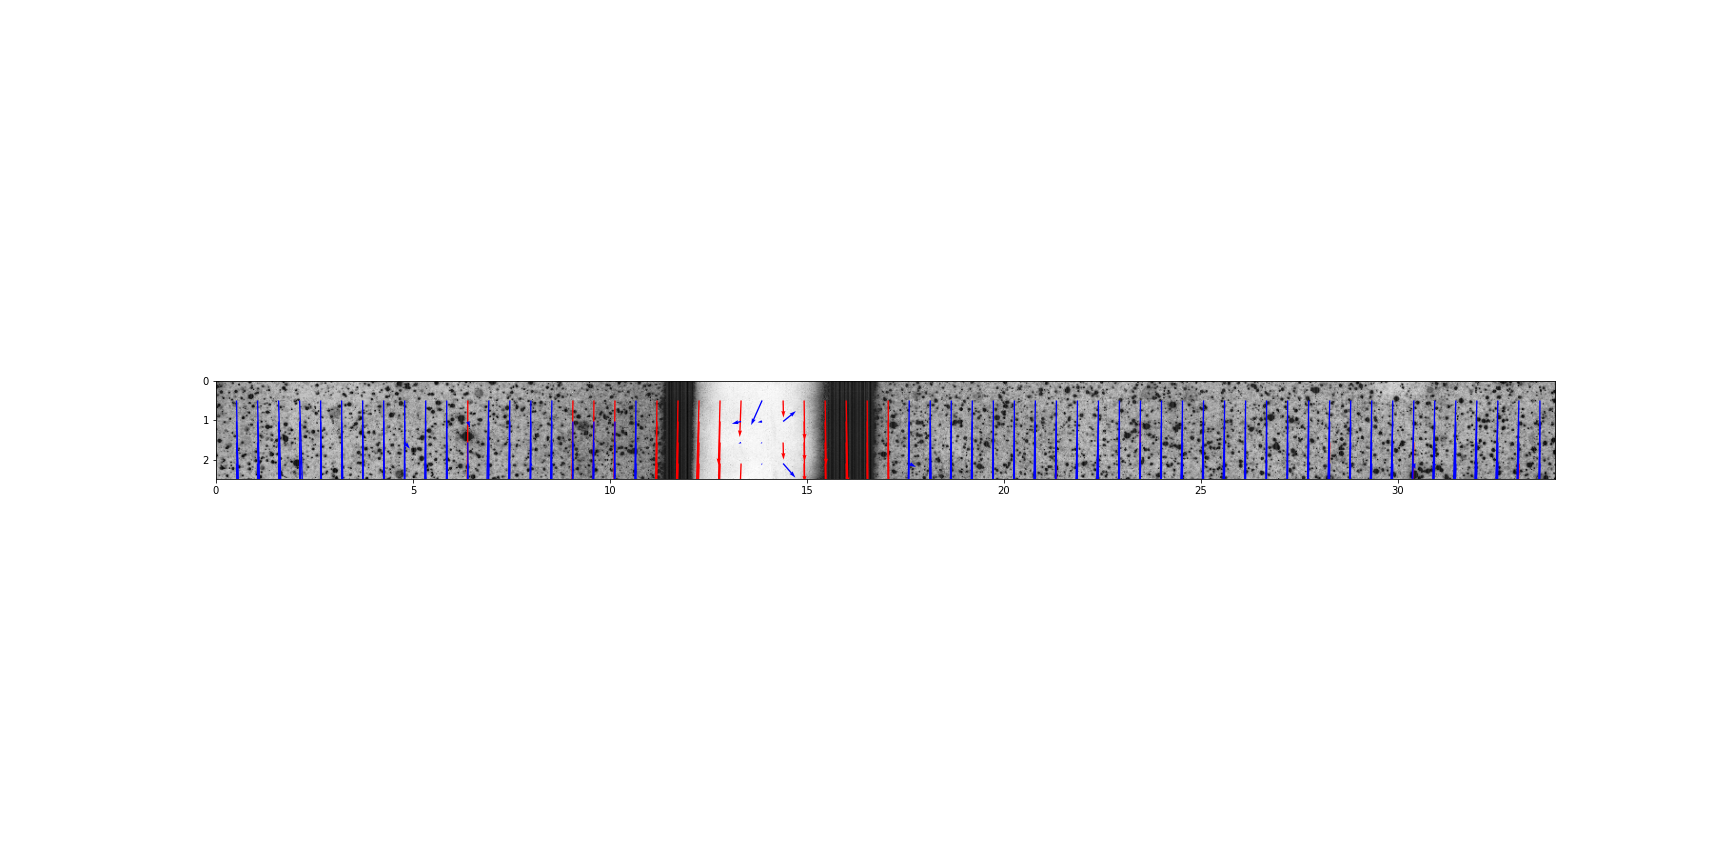
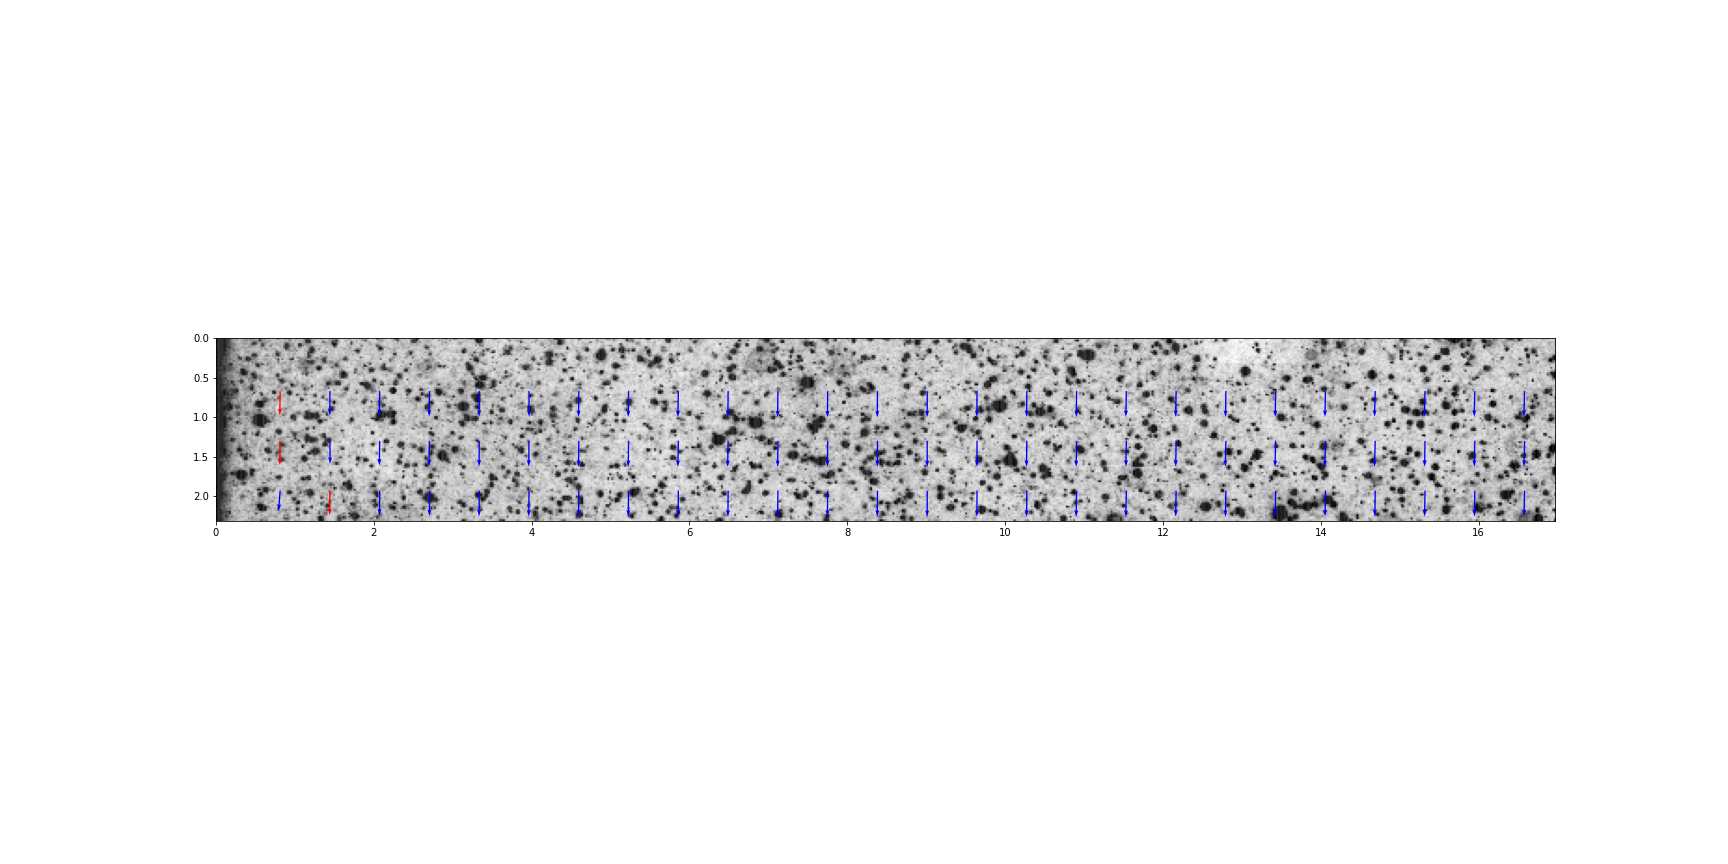
done with finding edge
but need to "ignore" the center region,
not removing. Also, think about no sample regions (front and end)

Changed region(s): [[0.125, 0.375, 0.9062, 0.625]]

diff --git a/playground.py b/playground.py
@@ -14,6 +14,8 @@ import skimage
 import skimage.feature
 import skimage.viewer
 
+import importlib
+
 # %%
 def param_string_to_dictionary(pstr):      
     running_parameter = re.findall("_[a-z]+[0-9]+[.]*[0-9]*", pstr, re.IGNORECASE)
@@ -30,15 +32,45 @@ def param_string_to_dictionary(pstr):
 
     return param_dict
 
+def split_image(img):
+    vertically_averaged = np.mean(img,axis=0)
+    filtered = gaussian_filter1d(vertically_averaged,10)
+    center_by_minimum = np.argmin(vertically_averaged)
 
+    left_max = np.argmax(filtered[0:center_by_minimum]) - 20
+    right_max = np.argmax(filtered[center_by_minimum:-1]) +center_by_minimum + 20
+    
+    img_left = img_a[:,0:left_max]
+    img_right = img_a[:,right_max:-1]
+
+    return img_left,img_right
+
+def split_image_arg(img):
+    vertically_averaged = np.mean(img,axis=0)
+    filtered = gaussian_filter1d(vertically_averaged,10)
+    center_by_minimum = np.argmin(vertically_averaged)
+
+    left_max = np.argmax(filtered[0:center_by_minimum]) - 20
+    right_max = np.argmax(filtered[center_by_minimum:-1]) +center_by_minimum + 20
+    
+    return left_max, right_max
+
+def match_images(img_a,img_b):
+    span_a = img_a.shape[1]
+    span_b = img_b.shape[1]
+
+    if span_a > span_b:
+        return img_a[:,span_a-span_b:-1], img_b
+    else:
+        return img_a, img_b[:,span_b-span_a:-1]
 # %%
 folder_path = 'D:/Rowland/piv-data/2021-01-20'
 
 param_string_list = os.listdir(folder_path)
 param_string_to_dictionary(param_string_list[5])
 # %%
-
-param_string_list = [param_string_list[0]]
+importlib.reload(openpiv_recipes)
+param_string_list = [param_string_list[5]]
 
 for param_string in param_string_list:
     img_a_name = 'frame_000102.tiff'
@@ -56,77 +88,64 @@ for param_string in param_string_list:
         file_path_b = os.path.join(folder_path,'img_' + param_string,img_b_name)
 
         img_a = io.imread(file_path_a)
-        img_b = io.imread(file_path_b)        
+        img_b = io.imread(file_path_b)
 
+    
+    
+    a_left, a_right = split_image_arg(img_a)
+    b_left, b_right = split_image_arg(img_b)
 
-    plt.imshow(img_a)
-    plt.imshow(img_b)
+    right_edge_index = max(a_right,b_right)
+    
+    img_a_right = img_a[:,right_edge_index:-1]
+    img_b_right = img_b[:,right_edge_index:-1]
+    
+    openpiv_recipes.run_piv(img_a_right,img_b_right,
+        winsize=48,
+        searchsize=50,
+        overlap=24,
+        show_vertical_profiles=False,
+        image_check=True,
+        figure_export_name='results.png')
+
+    
+    
+
 # %%
+img_a_left,img_a_right = split_image(img_a)
+img_b_left,img_b_right = split_image(img_b)
 
 # %%
-openpiv_recipes.run_piv(img_a,img_b,
-    winsize=40,
-    searchsize=42,
-    overlap=20,
+trimmed_a,trimmed_b = match_images(img_a_right,img_b_right)
+
+plt.imshow(trimmed_b)
+
+# %%
+importlib.reload(openpiv_recipes)
+openpiv_recipes.run_piv(trimmed_a,trimmed_b,
+    winsize=48,
+    searchsize=50,
+    overlap=24,
     show_vertical_profiles=False,
     image_check=True,
     figure_export_name='results.png')
         
 # %%
-sigma = 2
-low_threshold = 0.1
-high_threshold = 0.2
-
-edges = skimage.feature.canny(
-    image=img_a,
-    sigma=sigma,
-    low_threshold=low_threshold,
-    high_threshold=high_threshold,
-)
-
-viewer = skimage.viewer.ImageViewer(edges)
-viewer.show()
-
-
+importlib.reload(openpiv_recipes)
+openpiv_recipes.run_piv(img_a,img_b,
+    winsize=48,
+    searchsize=50,
+    overlap=24,
+    show_vertical_profiles=False,
+    image_check=True,
+    figure_export_name='results.png')
 # %%
-vertically_averaged = np.mean(img_a,axis=0)
-horizontally_averaged = np.mean(img_a,axis=1)
-
-# %%
-
-
-plt.plot(vertically_averaged[350:500],'.-')
-plt.plot(vertically_averaged)
-
-center_by_minimum = np.argmin(vertically_averaged)
-span = 200
-
-
-
-right_max = np.argmax(vertically_averaged[center_by_minimum:center_by_minimum+span]- vertically_averaged[center_by_minimum+1:center_by_minimum+span+1]) + center_by_minimum + 10
-left_max = np.argmax(-vertically_averaged[0:center_by_minimum-2] + vertically_averaged[2:center_by_minimum]) + 10
-
-
-# %%
-img_a_right = img_a[:,right_max:-1]
-
-img_a_left = img_a[:,0:350+140]
-img_a_left = img_a[:,0:left_max]
-plt.imshow(img_a_left)
-
-
-# %%
-plt.imshow(img_a_right)
-# %%
-img_filtered = gaussian_filter1d(vertically_averaged,10)
-plt.plot(img_filtered,'o')
-
-right_max = np.argmax(vertically_averaged[center_by_minimum:-1]) +center_by_minimum + 20
-left_max = np.argmax(vertically_averaged[0:center_by_minimum]) - 20
-
-img_a_right = img_a[:,right_max:-1]
-img_a_left = img_a[:,0:left_max]
-plt.imshow(img_a_left)
-# %%
-plt.imshow(img_a_right)
+importlib.reload(openpiv_recipes)
+openpiv_recipes.run_piv(img_a[:,700:-1],img_b[:,700:-1],
+    winsize=48,
+    searchsize=50,
+    overlap=24,
+    show_vertical_profiles=False,
+    image_check=True,
+    figure_export_name='results.png')
 # %%

diff --git a/openpiv_recipes.py b/openpiv_recipes.py
@@ -19,14 +19,14 @@ def run_piv(
     winsize = 64, # pixels, interrogation window size in frame A
     searchsize = 66,  # pixels, search in image B
     overlap = 32, # pixels, 50% overlap
-    dt = 0.0005, # sec, time interval between pulses
+    dt = 0.0001, # sec, time interval between pulses
     image_check = False,
     show_vertical_profiles = False,
     figure_export_name = 'results.png',
     text_export_name =  "results.txt",
     scale_factor = 1
     ):  
-    
+           
     u0, v0, sig2noise = pyprocess.extended_search_area_piv(frame_a.astype(np.int32), 
                                                         frame_b.astype(np.int32), 
                                                         window_size=winsize, 
@@ -64,7 +64,7 @@ def run_piv(
     fig, ax = plt.subplots(figsize=(24,12))
     tools.display_vector_field(text_export_name, 
                                    ax=ax, scaling_factor=41.22, 
-                                   scale=0.05e5*scale_factor, # scale defines here the arrow length
+                                   scale=2e5*scale_factor, # scale defines here the arrow length
                                    width=0.001, # width is the thickness of the arrow
                                    on_img=True, # overlay on the image
                                    image_name= 'test_img.tiff');            
